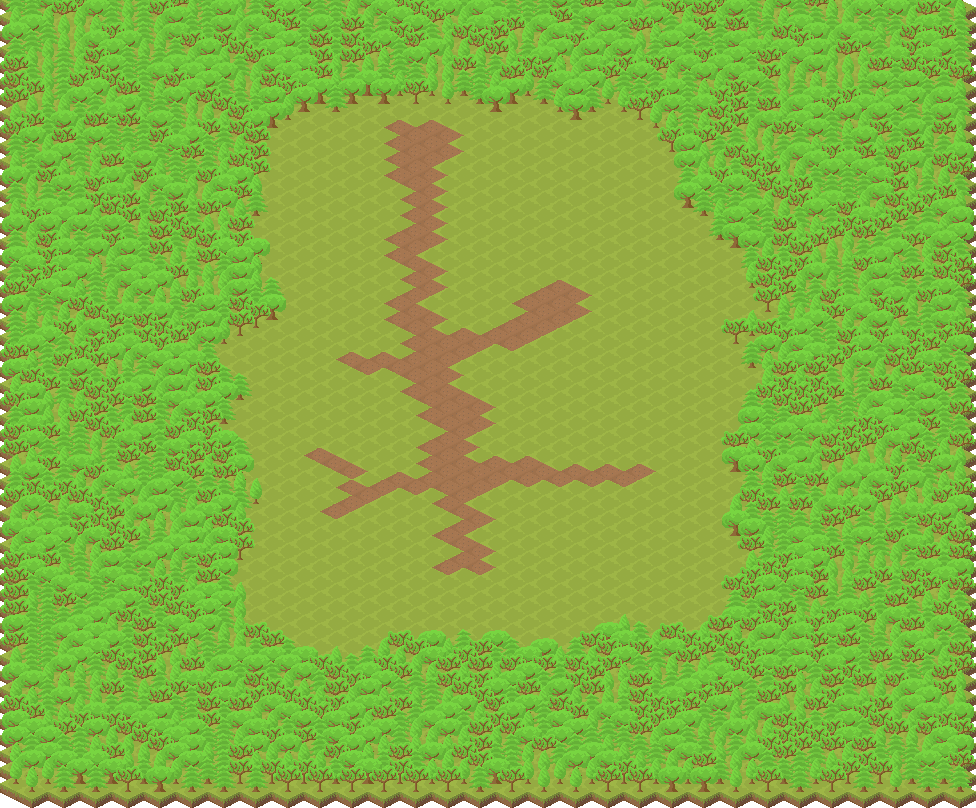
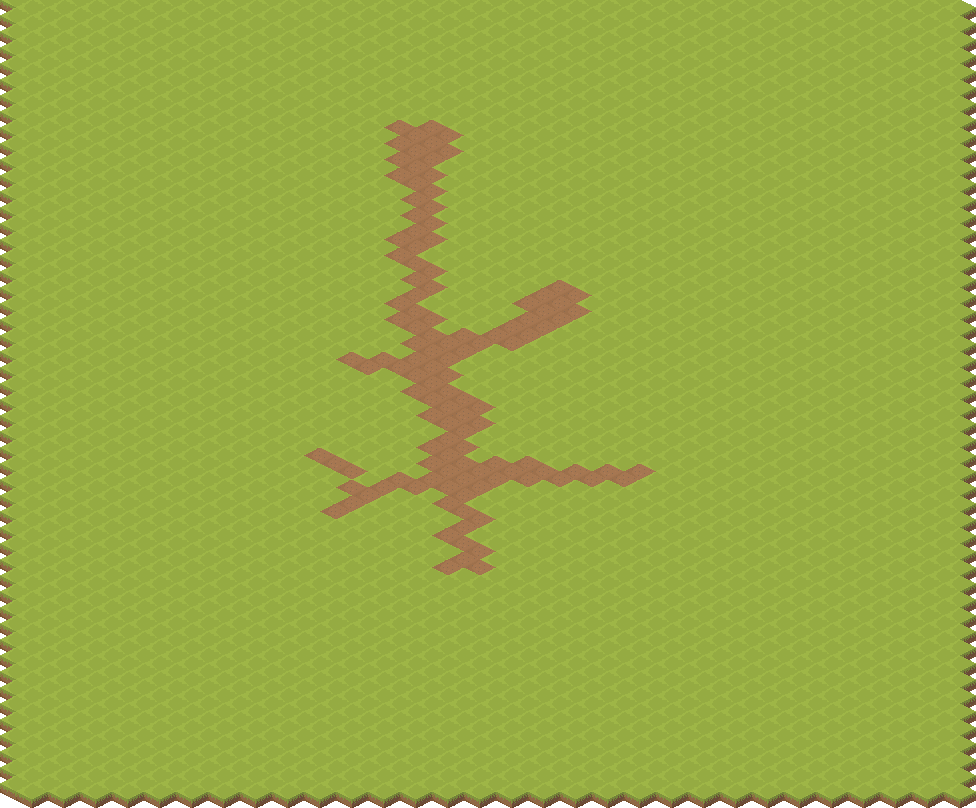
Better background
Added layers with trees and rocks

diff --git a/code/level.py b/code/level.py
@@ -31,11 +31,12 @@ class Level:
         match self.name:
             case "mountain":
                 layouts = import_layouts(
-                    "mountain", ["constraints", "teleports", "magic_trees", "npcs"]
+                    "mountain",
+                    ["constraints", "teleports", "magic_trees", "npcs", "trees"],
                 )
             case "cave":
                 layouts = import_layouts(
-                    "cave", ["constraints", "teleports", "magic_rocks", "npcs"]
+                    "cave", ["constraints", "teleports", "magic_rocks", "npcs", "rocks"]
                 )
 
             case "cats":
@@ -102,6 +103,35 @@ class Level:
                                         path,
                                         (x, y),
                                     )
+                        case "trees":
+                            if val != "-1":
+                                path = (
+                                    config.PROJECT_FOLDER
+                                    + f"/graphics/sprites/background/trees/{int(val)}_tree/"
+                                )
+                                Tile(
+                                    [
+                                        self.all_sprites,
+                                        self.visible_sprites,
+                                    ],
+                                    path,
+                                    (x, y),
+                                )
+
+                        case "rocks":
+                            if val != "-1":
+                                path = (
+                                    config.PROJECT_FOLDER
+                                    + f"/graphics/sprites/background/rocks/{int(val)}_rock/"
+                                )
+                                Tile(
+                                    [
+                                        self.all_sprites,
+                                        self.visible_sprites,
+                                    ],
+                                    path,
+                                    (x, y),
+                                )
 
                         case "teleports":
                             sprite_type = ["mountain", "cave", "cats"]
